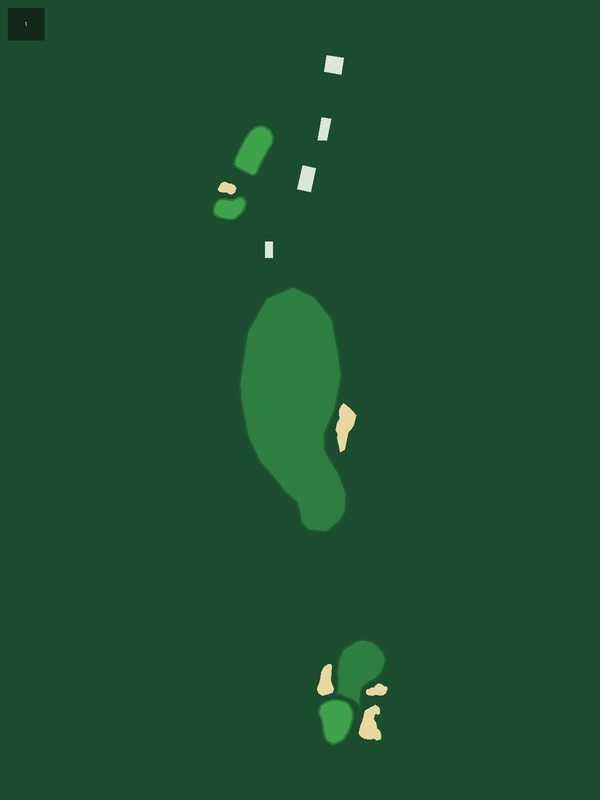
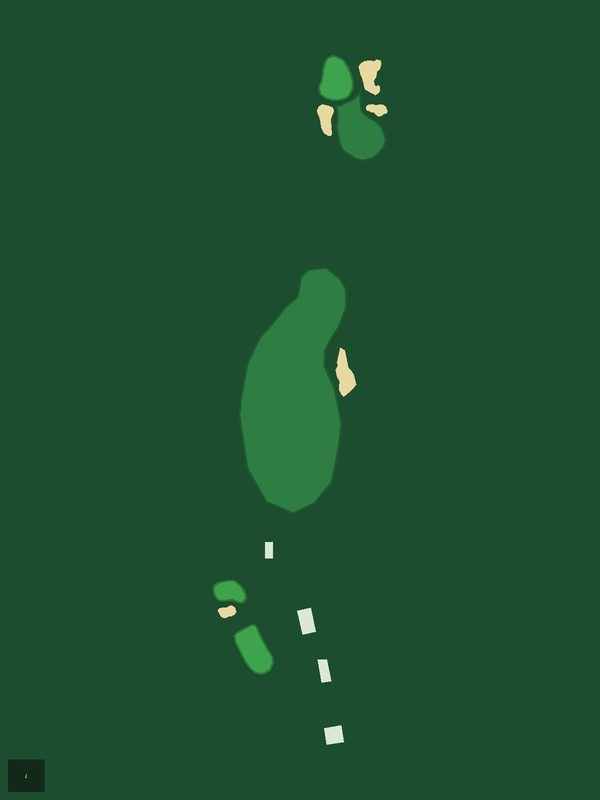
Kapalua Plantation Course: fix map geometry (H1 vertical flip, H5 water hazard) + H1 pin correction + H7/H12 par fixes + 25 to-pin markers + distance scales
- Flip hole 1 artwork vertically (was inverted); regenerate mask; move pin
  onto the green (was off-green at 0.423,0.188 -> 0.560,0.099)
- Paint missing water hazard right of the green on hole 5 (+ mask)
- Manifest par corrections from screenshots: H7 5->4, H12 3->4
- 25 validated to-pin markers + yardsPerPixel on holes 2,3,4,6,8,11,14,16
- Phase 1 QA corrections applied: H3/H14 pins re-identified from the blue
  drive-target diamond to the true white-dot pin; H3 re-tiered A (was B),
  H14 markers recomputed (was +45/+47/-12, now +12/+21/+57);
  H5 tee boxes kept (OSM tee polygons, not spurious buildings)

diff --git a/app/lib/widgets/hole_map_manifest.dart b/app/lib/widgets/hole_map_manifest.dart
@@ -132,22 +132,22 @@ const holeMapManifest = <String, Map<int, HoleMapAsset>>{
     18: HoleMapAsset(par: 4, map: 'assets/hole_maps/harbour-town-golf-links/18.jpg', mask: 'assets/hole_maps/harbour-town-golf-links/18_mask.png', tee: Offset(0.471, 0.636), pin: Offset(0.473, 0.144), source: 'osm'),
   },
   'Kapalua Plantation Course': {
-    1: HoleMapAsset(par: 4, map: 'assets/hole_maps/kapalua-plantation-course/1.jpg', mask: 'assets/hole_maps/kapalua-plantation-course/1_mask.png', tee: Offset(0.556, 0.900), pin: Offset(0.423, 0.188), source: 'osm'),
-    2: HoleMapAsset(par: 3, map: 'assets/hole_maps/kapalua-plantation-course/2.jpg', mask: 'assets/hole_maps/kapalua-plantation-course/2_mask.png', tee: Offset(0.593, 0.908), pin: Offset(0.587, 0.296), source: 'mixed'),
-    3: HoleMapAsset(par: 4, map: 'assets/hole_maps/kapalua-plantation-course/3.jpg', mask: 'assets/hole_maps/kapalua-plantation-course/3_mask.png', tee: Offset(0.520, 0.920), pin: Offset(0.520, 0.167), source: 'osm'),
-    4: HoleMapAsset(par: 4, map: 'assets/hole_maps/kapalua-plantation-course/4.jpg', mask: 'assets/hole_maps/kapalua-plantation-course/4_mask.png', tee: Offset(0.468, 0.915), pin: Offset(0.470, 0.127), source: 'osm'),
+    1: HoleMapAsset(par: 4, map: 'assets/hole_maps/kapalua-plantation-course/1.jpg', mask: 'assets/hole_maps/kapalua-plantation-course/1_mask.png', tee: Offset(0.556, 0.900), pin: Offset(0.560, 0.099), source: 'osm'),
+    2: HoleMapAsset(par: 3, map: 'assets/hole_maps/kapalua-plantation-course/2.jpg', mask: 'assets/hole_maps/kapalua-plantation-course/2_mask.png', tee: Offset(0.593, 0.908), pin: Offset(0.587, 0.296), source: 'mixed', yardsPerPixel: 0.44721, yardages: const [YardageMarker(offset: Offset(0.6241, 0.3031), yards: 10), YardageMarker(offset: Offset(0.6009, 0.3507), yards: 20), YardageMarker(offset: Offset(0.5914, 0.4209), yards: 45)]),
+    3: HoleMapAsset(par: 4, map: 'assets/hole_maps/kapalua-plantation-course/3.jpg', mask: 'assets/hole_maps/kapalua-plantation-course/3_mask.png', tee: Offset(0.520, 0.920), pin: Offset(0.520, 0.167), source: 'osm', yardsPerPixel: 0.70389, yardages: const [YardageMarker(offset: Offset(0.5593, 0.4995), yards: 184), YardageMarker(offset: Offset(0.5482, 0.5663), yards: 223)]),
+    4: HoleMapAsset(par: 4, map: 'assets/hole_maps/kapalua-plantation-course/4.jpg', mask: 'assets/hole_maps/kapalua-plantation-course/4_mask.png', tee: Offset(0.468, 0.915), pin: Offset(0.470, 0.127), source: 'osm', yardsPerPixel: 0.66940, yardages: const [YardageMarker(offset: Offset(0.4506, 0.5035), yards: 218), YardageMarker(offset: Offset(0.6090, 0.5114), yards: 215)]),
     5: HoleMapAsset(par: 5, map: 'assets/hole_maps/kapalua-plantation-course/5.jpg', mask: 'assets/hole_maps/kapalua-plantation-course/5_mask.png', tee: Offset(0.559, 0.854), pin: Offset(0.558, 0.128), source: 'osm'),
-    6: HoleMapAsset(par: 4, map: 'assets/hole_maps/kapalua-plantation-course/6.jpg', mask: 'assets/hole_maps/kapalua-plantation-course/6_mask.png', tee: Offset(0.571, 0.923), pin: Offset(0.571, 0.178), source: 'osm'),
-    7: HoleMapAsset(par: 5, map: 'assets/hole_maps/kapalua-plantation-course/7.jpg', mask: 'assets/hole_maps/kapalua-plantation-course/7_mask.png', tee: Offset(0.544, 0.874), pin: Offset(0.545, 0.143), source: 'osm'),
-    8: HoleMapAsset(par: 3, map: 'assets/hole_maps/kapalua-plantation-course/8.jpg', mask: 'assets/hole_maps/kapalua-plantation-course/8_mask.png', tee: Offset(0.399, 0.828), pin: Offset(0.404, 0.186), source: 'mixed'),
+    6: HoleMapAsset(par: 4, map: 'assets/hole_maps/kapalua-plantation-course/6.jpg', mask: 'assets/hole_maps/kapalua-plantation-course/6_mask.png', tee: Offset(0.571, 0.923), pin: Offset(0.571, 0.178), source: 'osm', yardsPerPixel: 0.71143, yardages: const [YardageMarker(offset: Offset(0.4899, 0.4320), yards: 146), YardageMarker(offset: Offset(0.6217, 0.5333), yards: 209)]),
+    7: HoleMapAsset(par: 4, map: 'assets/hole_maps/kapalua-plantation-course/7.jpg', mask: 'assets/hole_maps/kapalua-plantation-course/7_mask.png', tee: Offset(0.544, 0.874), pin: Offset(0.545, 0.143), source: 'osm'),
+    8: HoleMapAsset(par: 3, map: 'assets/hole_maps/kapalua-plantation-course/8.jpg', mask: 'assets/hole_maps/kapalua-plantation-course/8_mask.png', tee: Offset(0.399, 0.828), pin: Offset(0.404, 0.186), source: 'mixed', yardsPerPixel: 0.38752, yardages: const [YardageMarker(offset: Offset(0.4240, 0.1204), yards: -13), YardageMarker(offset: Offset(0.5046, 0.1892), yards: 7), YardageMarker(offset: Offset(0.5418, 0.2218), yards: 15), YardageMarker(offset: Offset(0.3960, 0.2255), yards: 18), YardageMarker(offset: Offset(0.5132, 0.2678), yards: 29)]),
     9: HoleMapAsset(par: 5, map: 'assets/hole_maps/kapalua-plantation-course/9.jpg', mask: 'assets/hole_maps/kapalua-plantation-course/9_mask.png', tee: Offset(0.526, 0.877), pin: Offset(0.530, 0.087), source: 'osm'),
     10: HoleMapAsset(par: 4, map: 'assets/hole_maps/kapalua-plantation-course/10.jpg', mask: 'assets/hole_maps/kapalua-plantation-course/10_mask.png', tee: Offset(0.450, 0.833), pin: Offset(0.454, 0.210), source: 'osm'),
-    11: HoleMapAsset(par: 3, map: 'assets/hole_maps/kapalua-plantation-course/11.jpg', mask: 'assets/hole_maps/kapalua-plantation-course/11_mask.png', tee: Offset(0.577, 0.709), pin: Offset(0.578, 0.210), source: 'mixed'),
-    12: HoleMapAsset(par: 3, map: 'assets/hole_maps/kapalua-plantation-course/12.jpg', mask: 'assets/hole_maps/kapalua-plantation-course/12_mask.png', tee: Offset(0.499, 0.803), pin: Offset(0.496, 0.102), source: 'osm'),
+    11: HoleMapAsset(par: 3, map: 'assets/hole_maps/kapalua-plantation-course/11.jpg', mask: 'assets/hole_maps/kapalua-plantation-course/11_mask.png', tee: Offset(0.577, 0.709), pin: Offset(0.578, 0.210), source: 'mixed', yardsPerPixel: 0.40329, yardages: const [YardageMarker(offset: Offset(0.5821, 0.1346), yards: -24), YardageMarker(offset: Offset(0.4376, 0.1873), yards: -10), YardageMarker(offset: Offset(0.6617, 0.1772), yards: -12), YardageMarker(offset: Offset(0.6818, 0.2415), yards: 8), YardageMarker(offset: Offset(0.5075, 0.3096), yards: 32)]),
+    12: HoleMapAsset(par: 4, map: 'assets/hole_maps/kapalua-plantation-course/12.jpg', mask: 'assets/hole_maps/kapalua-plantation-course/12_mask.png', tee: Offset(0.499, 0.803), pin: Offset(0.496, 0.102), source: 'osm'),
     13: HoleMapAsset(par: 4, map: 'assets/hole_maps/kapalua-plantation-course/13.jpg', mask: 'assets/hole_maps/kapalua-plantation-course/13_mask.png', tee: Offset(0.515, 0.911), pin: Offset(0.515, 0.263), source: 'osm'),
-    14: HoleMapAsset(par: 4, map: 'assets/hole_maps/kapalua-plantation-course/14.jpg', mask: 'assets/hole_maps/kapalua-plantation-course/14_mask.png', tee: Offset(0.577, 0.816), pin: Offset(0.577, 0.113), source: 'osm'),
+    14: HoleMapAsset(par: 4, map: 'assets/hole_maps/kapalua-plantation-course/14.jpg', mask: 'assets/hole_maps/kapalua-plantation-course/14_mask.png', tee: Offset(0.577, 0.816), pin: Offset(0.577, 0.113), source: 'osm', yardsPerPixel: 0.53500, yardages: const [YardageMarker(offset: Offset(0.5395, 0.1193), yards: 12), YardageMarker(offset: Offset(0.6409, 0.1184), yards: 21), YardageMarker(offset: Offset(0.5898, 0.2457), yards: 57)]),
     15: HoleMapAsset(par: 5, map: 'assets/hole_maps/kapalua-plantation-course/15.jpg', mask: 'assets/hole_maps/kapalua-plantation-course/15_mask.png', tee: Offset(0.560, 0.920), pin: Offset(0.561, 0.106), source: 'osm'),
-    16: HoleMapAsset(par: 4, map: 'assets/hole_maps/kapalua-plantation-course/16.jpg', mask: 'assets/hole_maps/kapalua-plantation-course/16_mask.png', tee: Offset(0.456, 0.875), pin: Offset(0.456, 0.140), source: 'osm'),
+    16: HoleMapAsset(par: 4, map: 'assets/hole_maps/kapalua-plantation-course/16.jpg', mask: 'assets/hole_maps/kapalua-plantation-course/16_mask.png', tee: Offset(0.456, 0.875), pin: Offset(0.456, 0.140), source: 'osm', yardsPerPixel: 0.62756, yardages: const [YardageMarker(offset: Offset(0.4156, 0.3606), yards: 123), YardageMarker(offset: Offset(0.4608, 0.2860), yards: 87), YardageMarker(offset: Offset(0.3915, 0.4296), yards: 155)]),
     17: HoleMapAsset(par: 4, map: 'assets/hole_maps/kapalua-plantation-course/17.jpg', mask: 'assets/hole_maps/kapalua-plantation-course/17_mask.png', tee: Offset(0.430, 0.835), pin: Offset(0.431, 0.116), source: 'osm'),
     18: HoleMapAsset(par: 5, map: 'assets/hole_maps/kapalua-plantation-course/18.jpg', mask: 'assets/hole_maps/kapalua-plantation-course/18_mask.png', tee: Offset(0.405, 0.813), pin: Offset(0.408, 0.107), source: 'osm'),
   },
